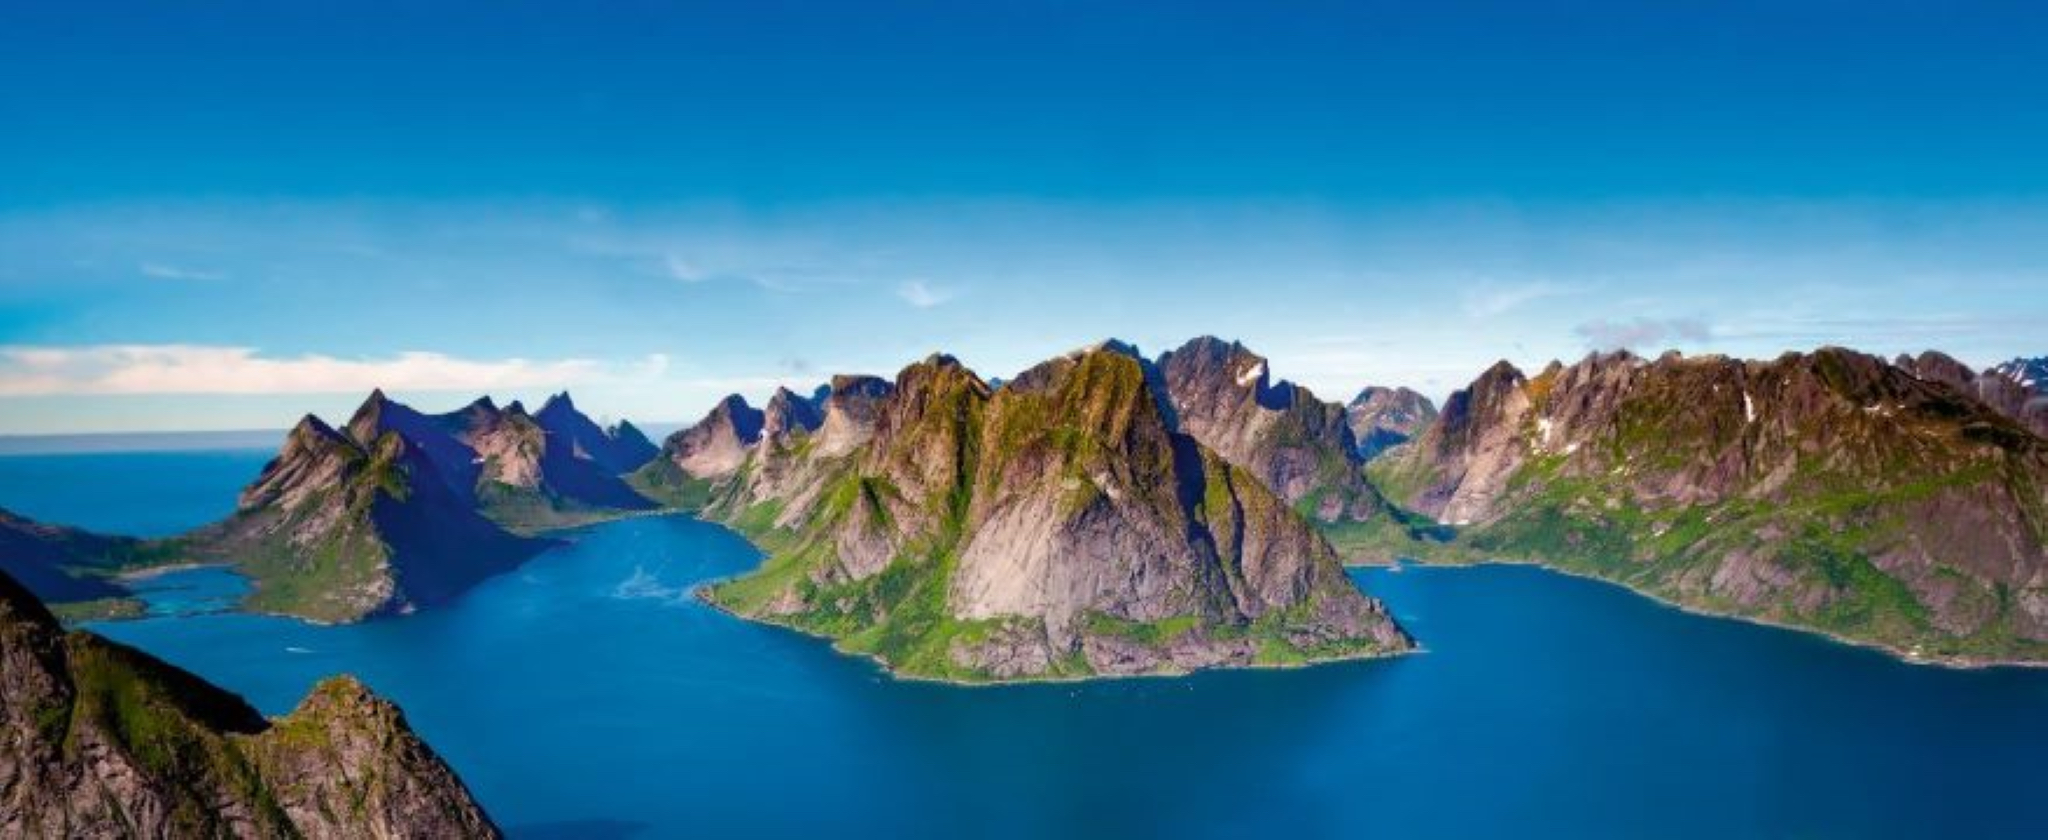
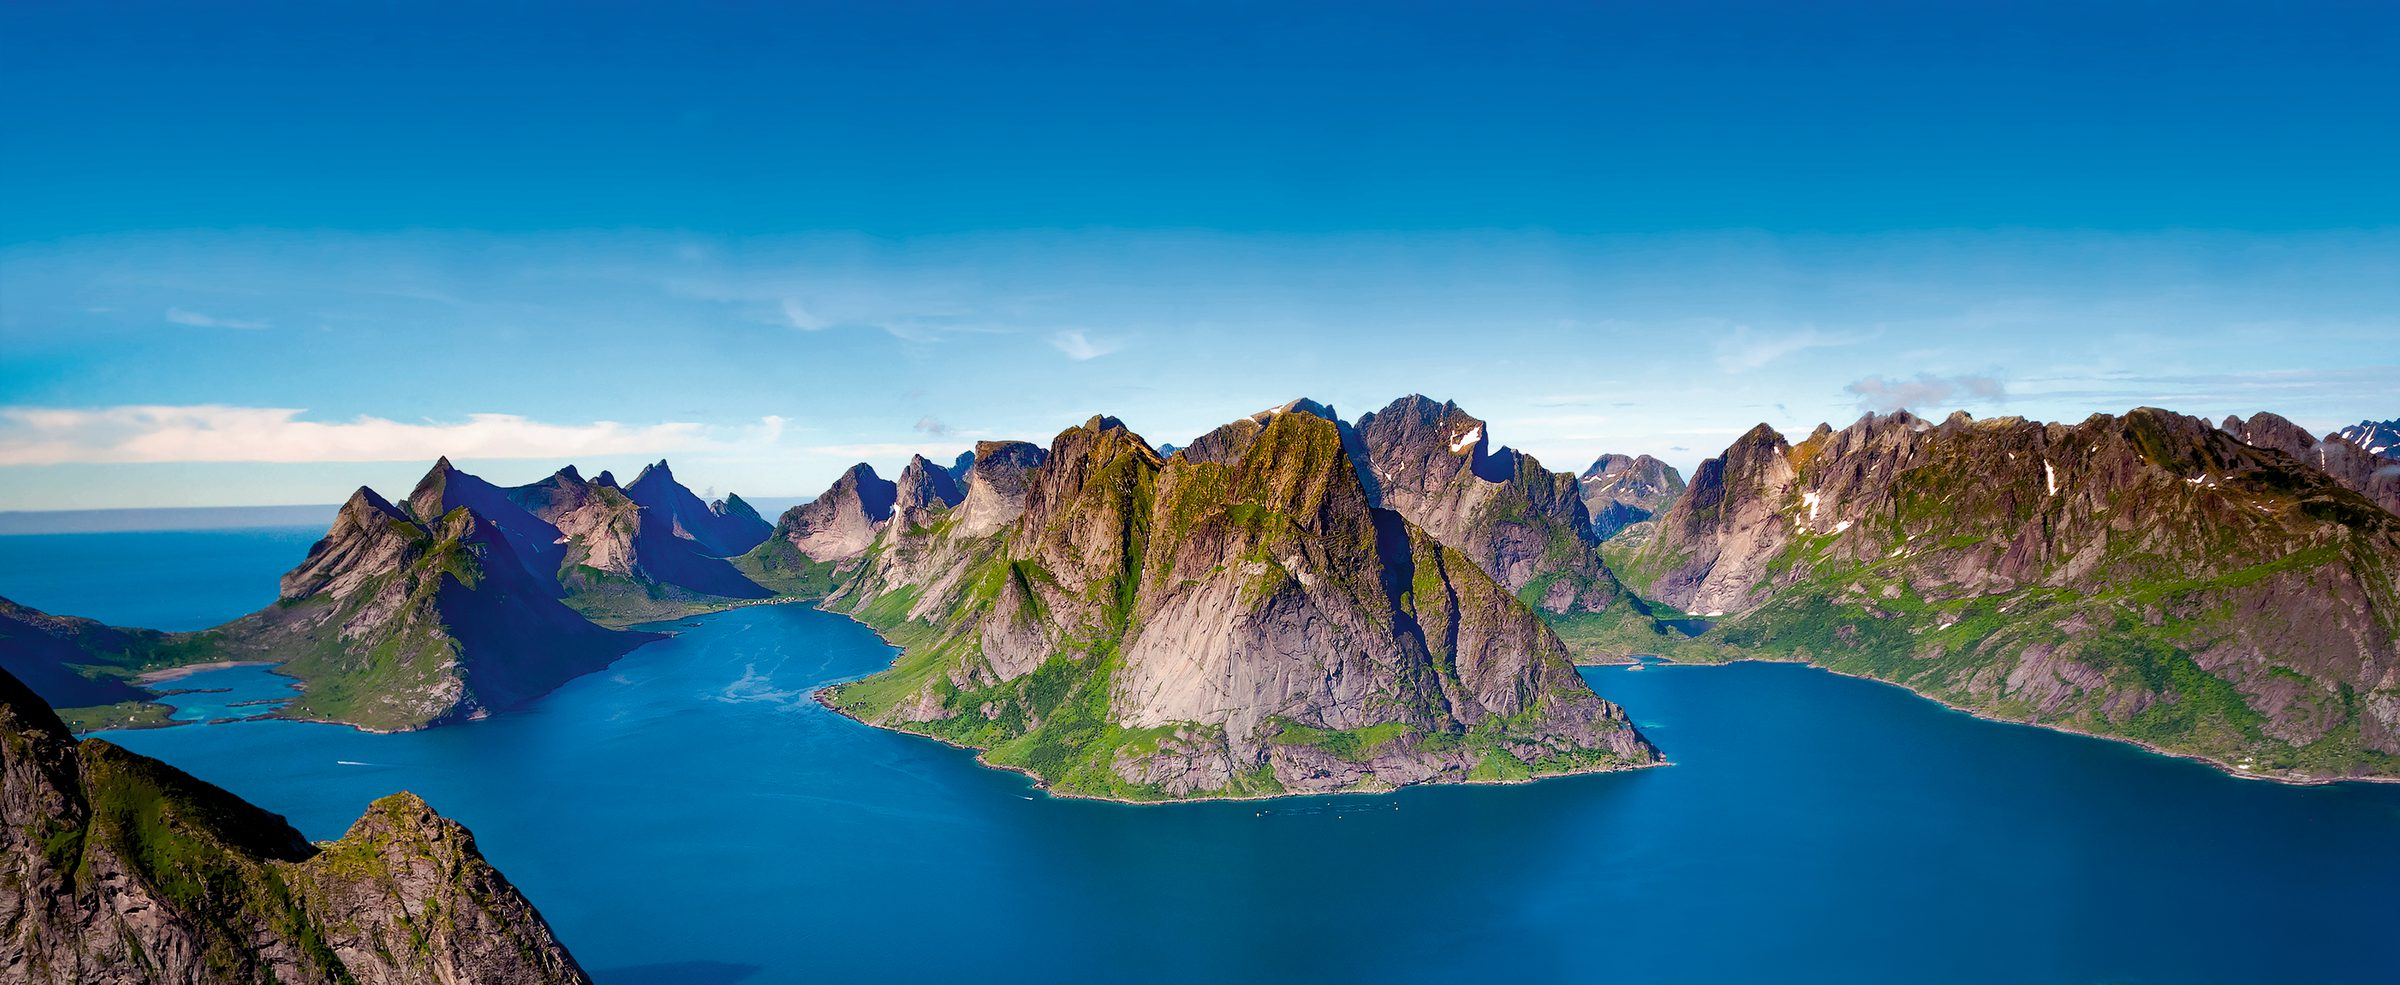
Nytt hero-bilde, oppdaterte anmeldelser, fjernet ingressen
Hero er byttet til høyoppløsningsbildet. Originalen er en 229 Mpx
CMYK-trykkfil, så den er konvertert til sRGB gjennom den innebygde
ISO Coated v2-profilen og skalert ned. Serveres nå som WebP med JPEG som
reserve, i 1200 og 2400 px: bedre oppløsning enn før, og en tredjedel av
vekten.

Erik var gjest i 1998, Anettes søster heter Gro og var her i 2011.

Ingressen på forsiden er fjernet, og den ubrukte regelen med den.

Changed region(s): [[0.0, 0.4024, 1.0, 1.0], [0.9688, 0.681, 1.0, 0.7119], [0.0625, 0.7738, 0.0938, 0.8048]]

diff --git a/booking/index.html b/booking/index.html
@@ -130,7 +130,7 @@
         <blockquote class="review__quote">«Slo kneet noe grassalt, men helt fantastisk tur!»</blockquote>
         <div class="review__author">
           <span class="review__name">Erik</span>
-          <span class="review__meta">Gjest i fjor · 4 døgn</span>
+          <span class="review__meta">Gjest i 1998 · 4 døgn</span>
         </div>
       </article>
 
@@ -155,8 +155,8 @@
         </span>
         <blockquote class="review__quote" lang="fr">«Quatre jours au bout du monde, entre la montagne et la morue séchée. Je n'ai pas compris un seul mot, et pourtant tout était limpide. Absolument inoubliable.»</blockquote>
         <div class="review__author">
-          <span class="review__name">Anettes søster</span>
-          <span class="review__meta">Gjest i fjor · 2 døgn</span>
+          <span class="review__name">Gro</span>
+          <span class="review__meta">Gjest i 2011 · 2 døgn</span>
         </div>
       </article>
     </div>

diff --git a/index.html b/index.html
@@ -20,7 +20,11 @@
 <body>
 
 <header class="hero">
-  <img class="hero__image" src="assets/hero.jpeg" alt="Lofoten">
+  <picture>
+    <source type="image/webp" sizes="100vw" srcset="assets/hero-1200.webp 1200w, assets/hero.webp 2400w">
+    <source type="image/jpeg" sizes="100vw" srcset="assets/hero-1200.jpeg 1200w, assets/hero.jpeg 2400w">
+    <img class="hero__image" src="assets/hero.jpeg" alt="Lofoten" width="2400" height="985" fetchpriority="high">
+  </picture>
   <div class="hero__overlay"></div>
   <div class="hero__inner">
     <div class="hero__meta">
@@ -38,8 +42,6 @@
 </header>
 
 <main class="landing">
-  <p class="landing__intro">Fire dager i Lofoten med tørrfisk, fjell og folk vi liker. Ingen påmeldingsavgift, ingen teambuilding, ingen powerpoint. Bare bratte topper, godt vær bestilt i god tid, og mat som lukter av havet.</p>
-
   <nav class="sections">
     <a class="section-link" href="om/">
       <span class="section-link__number">01</span>

diff --git a/styles.css b/styles.css
@@ -127,14 +127,6 @@ img { display: block; max-width: 100%; }
   padding: clamp(48px, 8vw, 104px) clamp(24px, 5vw, 64px);
 }
 
-.landing__intro {
-  margin: 0 0 clamp(40px, 6vw, 72px);
-  max-width: 620px;
-  font-size: clamp(17px, 1.6vw, 21px);
-  line-height: 1.65;
-  text-wrap: pretty;
-}
-
 .sections {
   display: flex;
   flex-direction: column;
